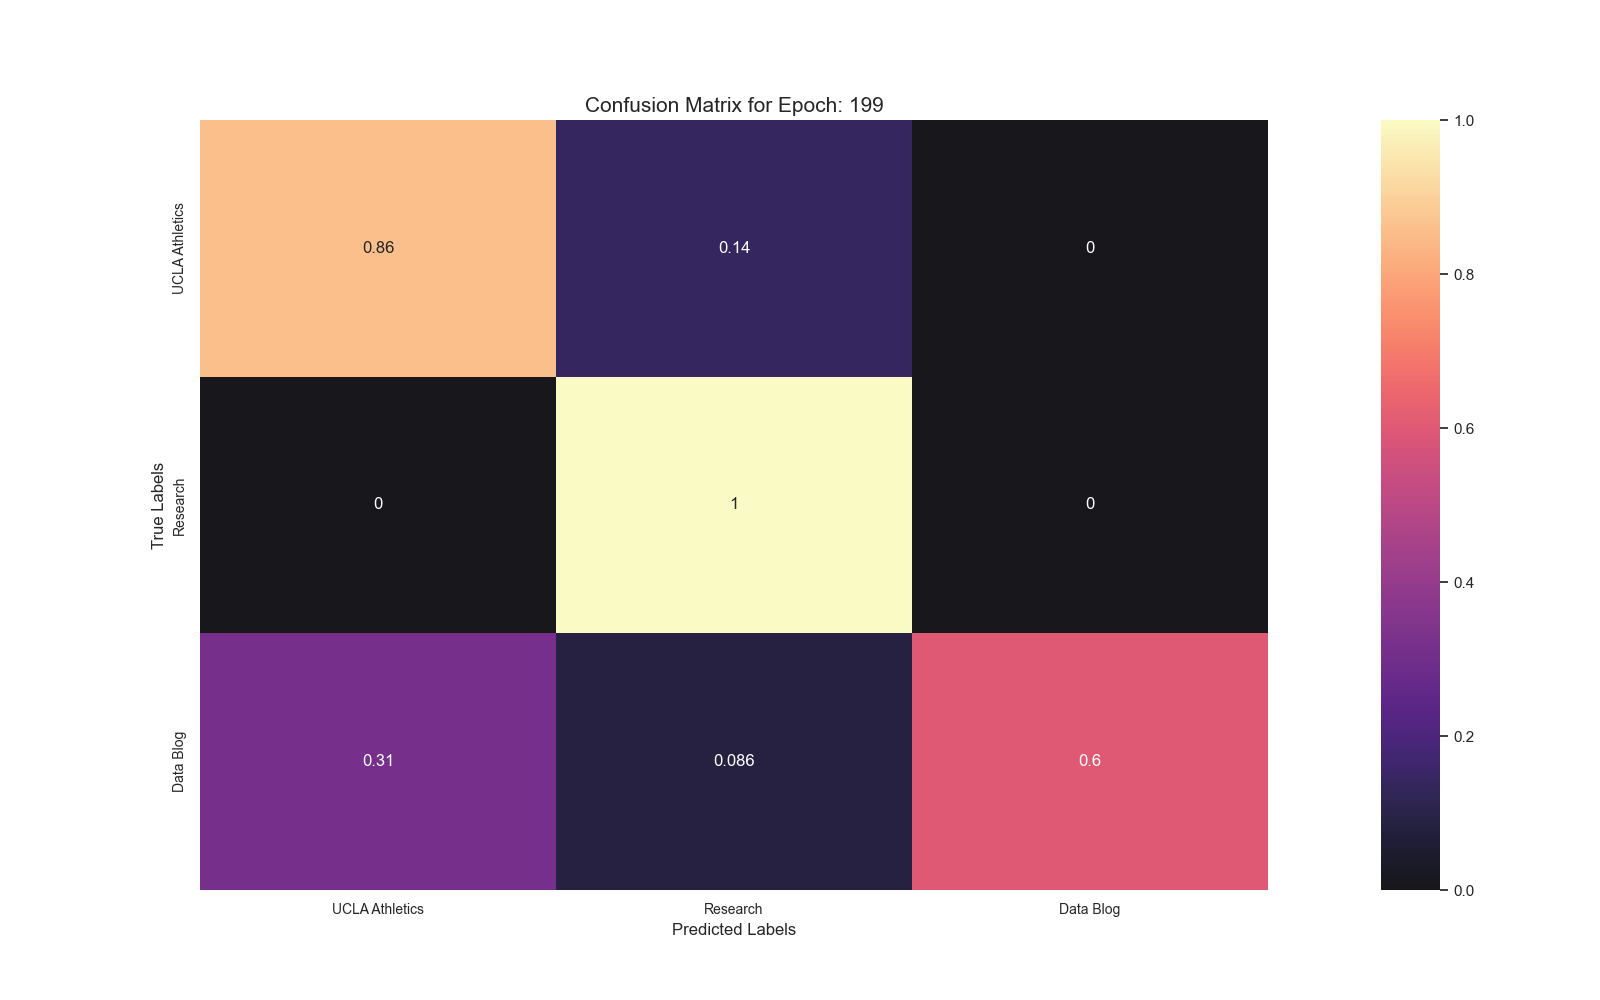
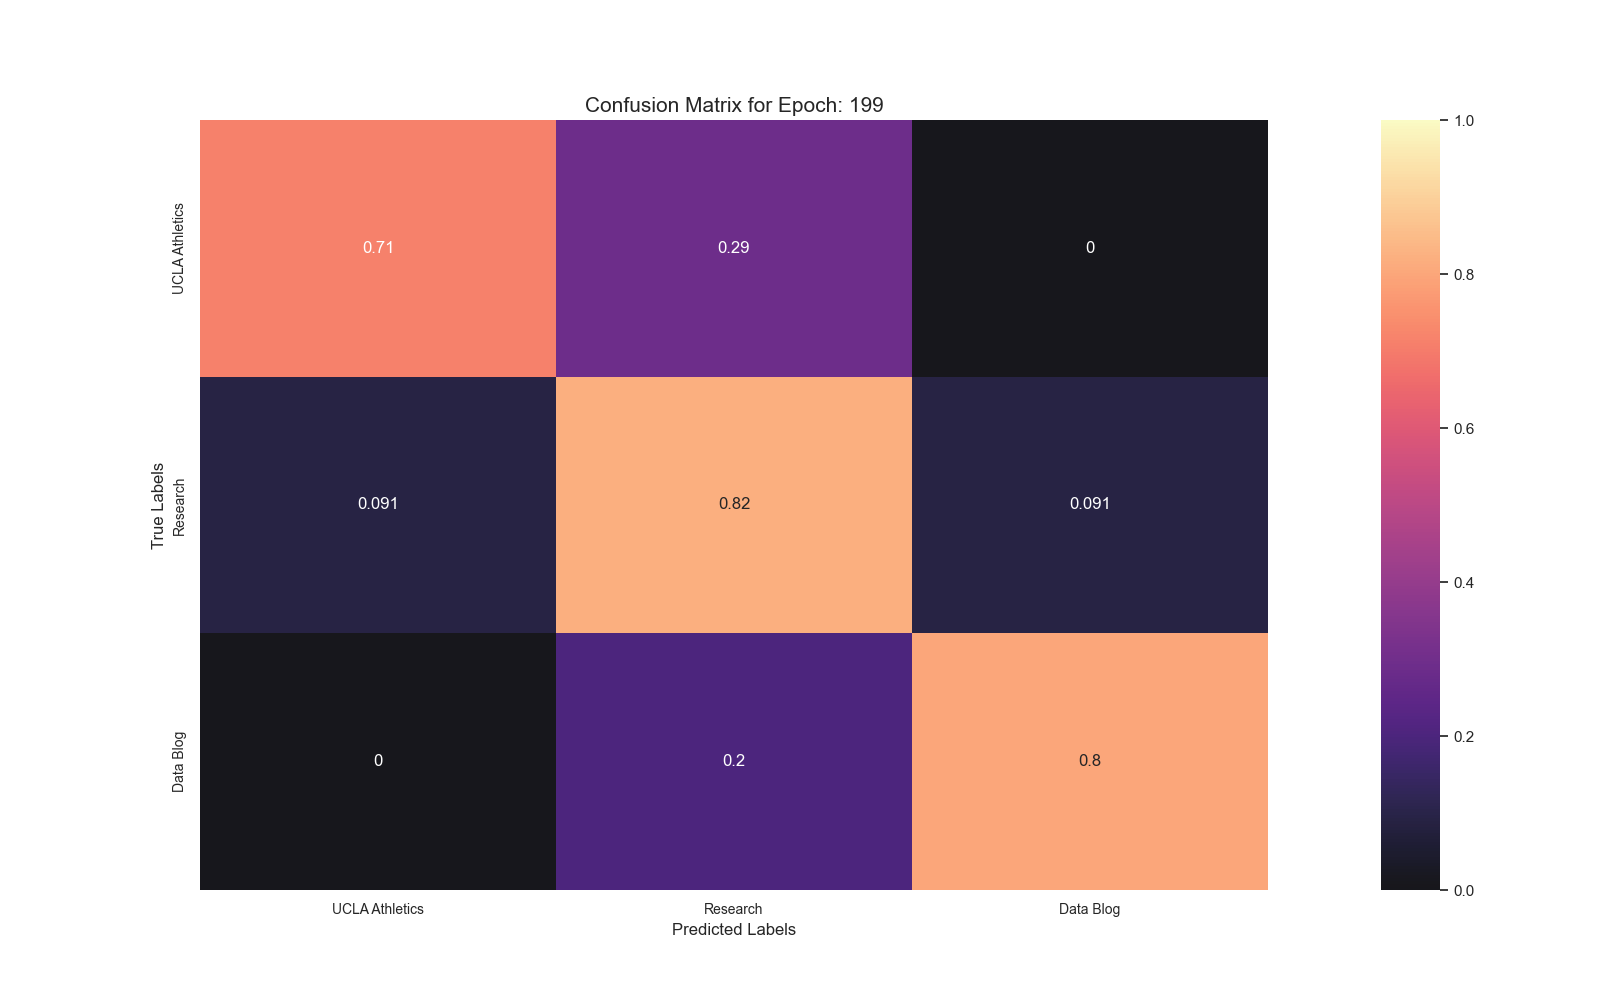
added node2vec

diff --git a/train.py b/train.py
@@ -5,6 +5,7 @@ import networkx as nx
 import torch
 import torch.nn as nn
 import torch.nn.functional as F
+import torch.nn.parameter as param
 from dgl.nn.pytorch import GraphConv
 
 from sklearn.metrics import confusion_matrix
@@ -25,6 +26,7 @@ sns.set_theme()
 from neodgl import edge_list 
 from model import *
 from utils import *
+from nx_node2vec import *
 
 import warnings
 warnings.filterwarnings('ignore')
@@ -61,6 +63,7 @@ if __name__ == "__main__":
     parser.add_argument("--test", default=False, action="store_true", help = "train the test data!")
     parser.add_argument("--uri", type=str, help="neo4j dbms uri", default="")
     parser.add_argument("--password", type=str, help="neo4j dbms password", default="")
+    parser.add_argument("--embed", type=str, help="types of embeddings, either 'node2vec' or 'torch_embeddings'", default="node2vec")
     args = parser.parse_args()
 
 
@@ -88,6 +91,21 @@ if __name__ == "__main__":
         print("connection success\n")
         time.sleep(2)
 
+    if args.embed == "node2vec":
+        #implement NODE2VEC
+        print("\nGenerating embeddings using Node2Vec:")
+        nx_node2vec_embed = embed_node2vec(nx_G)
+        nx_node2vec_embed = torch.tensor(nx_node2vec_embed, dtype=torch.float32)
+        nx_node2vec_embed = param.Parameter(nx_node2vec_embed, requires_grad = True)
+
+        #make the embeddings node2vec
+        embed = nn.Embedding(nx_G.number_of_nodes(), 5) # 62 nodes with embedding dim equal to 5
+        embed.weight = nx_node2vec_embed
+        #print(nx_node2vec_embed)
+
+    if args.embed == "torch_embeddings":
+        embed = nn.Embedding(nx_G.number_of_nodes(), 5) # 62 nodes with embedding dim equal to 5
+        
 
     nx_G = G.to_networkx().to_undirected()
     print("network data:")
@@ -95,20 +113,15 @@ if __name__ == "__main__":
     print('   %d edges.'% G.number_of_edges())
     print("prelabeled nodes:", prelabeled_nodes)
 
-    #create embeddings using kamada kawaii
-    #pos = nx.kamada_kawai_layout(nx_G)
 
-    #train the model
-
-    
-    embed = nn.Embedding(nx_G.number_of_nodes(), 5) # 34 nodes with embedding dim equal to 5
     G.ndata['feat'] = embed.weight
 
     #create the model
     net = GCN(5, 5, num_labels)
+    net = net.double()
     print('\ngcn:', net)
 
-    inputs = embed.weight
+    inputs = embed.weight.double()
     labeled_nodes = torch.tensor(prelabeled_nodes)
     labels = torch.tensor(classes)  
 
@@ -121,6 +134,7 @@ if __name__ == "__main__":
     print("model training")
     time.sleep(2)
     #start the training
+
     for epoch in range(200):
 
         logits = net(G, inputs)

diff --git a/nx_node2vec.py b/nx_node2vec.py
@@ -1,0 +1,20 @@
+import networkx as nx
+import numpy as np
+import pandas as pd
+
+from node2vec import Node2Vec
+
+
+
+def embed_node2vec(nx_G: nx.DiGraph) -> np.array:
+
+    #generate object
+    node2vec = Node2Vec(nx_G, dimensions=5, walk_length=10, num_walks=50, workers=1)
+    
+    #generate embeddings
+    model = node2vec.fit(window=10, min_count=1, batch_words=4)
+    node2vec_df = (pd.DataFrame([model.wv.get_vector(str(n)) for n in nx_G.nodes()], index = nx_G.nodes))
+
+    node2vec_embeddings = node2vec_df.to_dict(orient='split')
+    node2vec_embeddings = np.array(node2vec_embeddings["data"])
+    return node2vec_embeddings

diff --git a/model.py b/model.py
@@ -11,8 +11,8 @@ class GCN(nn.Module):
 
     def __init__(self, in_feats, hidden_size, num_classes):
         super(GCN, self).__init__()
-        self.conv1 = GraphConv(in_feats, hidden_size, include_zero_in_degree = True)
-        self.conv2 = GraphConv(hidden_size, num_classes, include_zero_in_degree = True)
+        self.conv1 = GraphConv(in_feats, hidden_size, allow_zero_in_degree = True)
+        self.conv2 = GraphConv(hidden_size, num_classes, allow_zero_in_degree = True)
 
     def forward(self, g, inputs):
         h = self.conv1(g, inputs)
